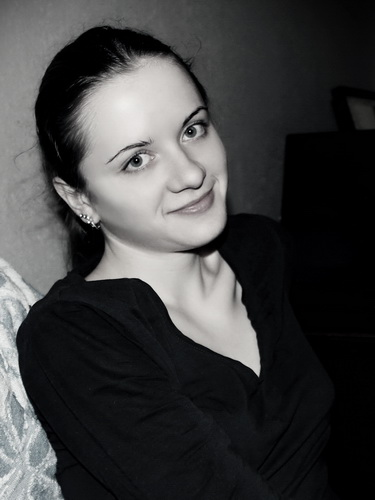
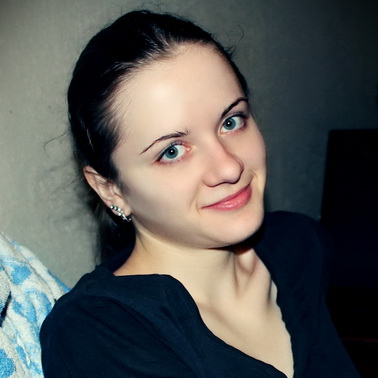
feat: add content

diff --git a/style.css b/style.css
@@ -2,7 +2,8 @@
 	--mainColor1: rgba(3, 56, 244, 60%);
 	--mainColor2: rgba(224, 37, 206, 60%);
 	--textColor: #130047;
-	--backColor: rgba(255, 255, 255, 35%); 
+	--backColor: rgba(255, 255, 255, 35%);
+	--borderRad: 17px; 
  }
 
 body {
@@ -25,9 +26,11 @@ body {
 aside {
 	display: flex;
 	flex-direction: column;
-	flex: 1;
+	flex: 1.5;
 	margin: 0 5px;
-	background: linear-gradient(to top left, var(--mainColor1) 35%, var(--mainColor2));	
+	background: linear-gradient(to top left, var(--mainColor1) 35%, var(--mainColor2));
+	border-radius: var(--borderRad);
+	text-align: center;
 }
 
 .main {
@@ -45,6 +48,7 @@ aside {
 header {
 	margin-bottom: 0.2rem;
 	text-align: right;
+	border-radius: var(--borderRad) 0 0 var(--borderRad);
 	background: linear-gradient(to bottom right, var(--mainColor1)  13%, var(--mainColor2));	
 }
 
@@ -65,6 +69,7 @@ h3 {
     padding: 0.1rem 0.5rem;
     margin: 0 0 0.8rem;
     font-weight: normal;
+	 background-color: var(--backColor);
 }
 
 .header {
@@ -78,7 +83,7 @@ h3 {
 
 main h2.left {
 	margin: 0.7rem 0 0.7rem;
-	border-radius: 0 17px 17px 0;
+	border-radius: 0 var(--borderRad) var(--borderRad) 0;
    padding-right: 30px;
 	text-align: left;
 	background: linear-gradient(to left, var(--mainColor1)  3%, var(--mainColor2));
@@ -86,7 +91,7 @@ main h2.left {
 
 main h2.right {
 	margin: 0.7rem 0 0.7rem;
-	border-radius: 17px 0 0 17px;
+	border-radius: var(--borderRad) 0 0 var(--borderRad);
     padding-left: 32px;
 	text-align: right;
 	background: linear-gradient(to right, var(--mainColor1) 33%, var(--mainColor2));
@@ -101,6 +106,15 @@ nav {
    padding-bottom: 10px;		
 }
 
+nav ul {
+	margin: 0;
+}
+
+nav li {
+	list-style: none;
+	display: inline;
+}
+
 nav a {
 	display: inline-block;
     padding: 0.4em 18px;
@@ -109,21 +123,24 @@ nav a {
     text-decoration: none;
     font-size: 1rem;
     color: white;
-    margin-right: -15px;	
+    margin-right: -15px;
+	 transition: 1s;	
 }
 
 nav a:hover {
-	font-size: 1.1rem;
+	/*Todo: transform stretch down*/
+	transform: scale(1.2);
+/*	font-size: 1.1rem;
 	font-weight: bold;
 	background: linear-gradient(135deg, rgb(3, 56, 244), rgb(224, 37, 206));
 	z-index: 1;
 	padding-bottom: 0.5rem;
-	box-shadow: inset 3px white;
+	box-shadow: inset 3px white;*/
 }
 
 nav a:active {
 	box-shadow: inset 1px 0.1px 4px 4px var(--backColor);
-	font-size: 1rem;	
+	/*font-size: 1rem;*/	
 }
 
 p {
@@ -139,8 +156,8 @@ blockquote {
 	color: var(--mainColor2);
 	text-align: center;
    margin: 0.3rem 0 0 5.7rem;
-    padding: 0.5rem;
-    border-radius: 0 18px;
+    padding: 0.6rem;
+    border-radius: 0 var(--borderRad);
    font-style: italic;
 	font-weight: bold;
    background-color: var(--backColor);
@@ -160,4 +177,66 @@ pre {
     font-size: 12px;
     margin: 0;
     background-color: var(--backColor);
+}
+
+figure.avatar {
+	margin: 10px 10px 3px;
+    background-color: var(--backColor);
+	 border-radius: var(--borderRad);	
+}
+
+img.avatar {
+	width: 9.5rem;
+	margin: 15px 20px 5px;
+	border-radius: 50%;
+	box-shadow: 0px 0px 10px 1px #e5e5e5;
+}
+
+aside h2 {
+	font-size: 1.3rem;
+	margin: 3px;
+}
+aside h3 {	
+	margin-bottom: 17px;
+}
+
+aside section {
+	background-color: var(--backColor);
+	border-radius: var(--borderRad);
+	margin: 3px 10px;
+}
+
+aside ul {
+	list-style: none;
+    padding: 0 5px 5px;
+    margin: 0;
+	 font-style: normal;
+}
+
+.skills:hover li {
+	transform: scale(0.9);	
+}
+
+.skills li {
+	display: inline-block;
+	transition: 0.5s;
+	width: 30%
+}
+
+li figure:hover {
+	transform: scale(1.2);		
+}
+
+li figure {	
+	margin: 0 0 6px;
+   padding: 0 0 3px;
+	transition: 0.5s;
+}
+
+figure img {
+	width: 100%;	
+}
+
+.skills figcaption {
+	line-height: 0.5em;
 }

diff --git a/index.html b/index.html
@@ -14,13 +14,65 @@
 	<div class="wrapper">
 
 		<aside>
+			<!--Todo: fig -> in section + location + en-->
+			<figure class="avatar">
+				<img src="images\avatar.jpg" alt='Avatar' class="avatar">
+				<figcaption>
+					<h3>Evelin Martina</h3>
+				</figcaption>
+			</figure>
+			<p>&#9660; Minsk, Belarus</p>
 
 			<section>
 				<h2>Skills</h2>
+				<ul class="skills">
+					<li>
+						<figure>
+							<img src="images/html51.png" alt='HTML5'>
+							<figcaption>HTML&nbsp5</figcaption>
+						</figure>
+					</li>
+					<li>
+						<figure>
+							<img src="images/css31.png" alt='CSS3'>
+							<figcaption>CSS 3</figcaption>
+						</figure>
+					</li>
+					<li>
+						<figure>
+							<img src="images/js1.jpg" alt='JavaScript'>
+							<figcaption>JavaScript</figcaption>
+						</figure>
+					</li>
+					<li>
+						<figure>
+							<img src="images/github1.png" alt='GitHub'>
+							<figcaption>GitHub</figcaption>
+						</figure>
+					</li>
+					<li>
+						<figure>
+							<img src="images/git1.png" alt='Git'>
+							<figcaption>Git</figcaption>
+						</figure>
+					</li>
+					<li>
+						<figure>
+							<img src="images/vsc1.png" alt='VScode'>
+							<figcaption>VScode</figcaption>
+						</figure>
+					</li>
+				</ul>
 			</section>
 
 			<section>
 				<h2>contacts</h2>
+				<ul>
+					<li>&#9990;</li>
+					<li>&#128386;</li>
+					<li>&#128049;</li>
+					<li>&#9997;</li>
+				</ul>
 			</section>
 
 		</aside>
@@ -32,10 +84,12 @@
 			</header>
 
 			<nav>
-				<a href=#about>About me</a>
-				<a href=#edu>Education</a>
-				<a href=#exp>Experience</a>
-				<a href=#code>Code example</a>
+				<ul>
+					<li><a href=#about>About me</a></li>
+					<li><a href=#edu>Education</a></li>
+					<li><a href=#exp>Experience</a></li>
+					<li><a href=#code>Code example</a></li>
+				</ul>
 			</nav>
 
 			<main>
@@ -53,7 +107,7 @@
 						and
 						permanently improve my skills.</p>
 					<blockquote>"A mind needs books as a sword needs a whetstone,
-						if it is <br>to keep it’s edge"</blockquote>
+						if it is to keep it’s edge"</blockquote>
 				</section>
 
 				<section>
